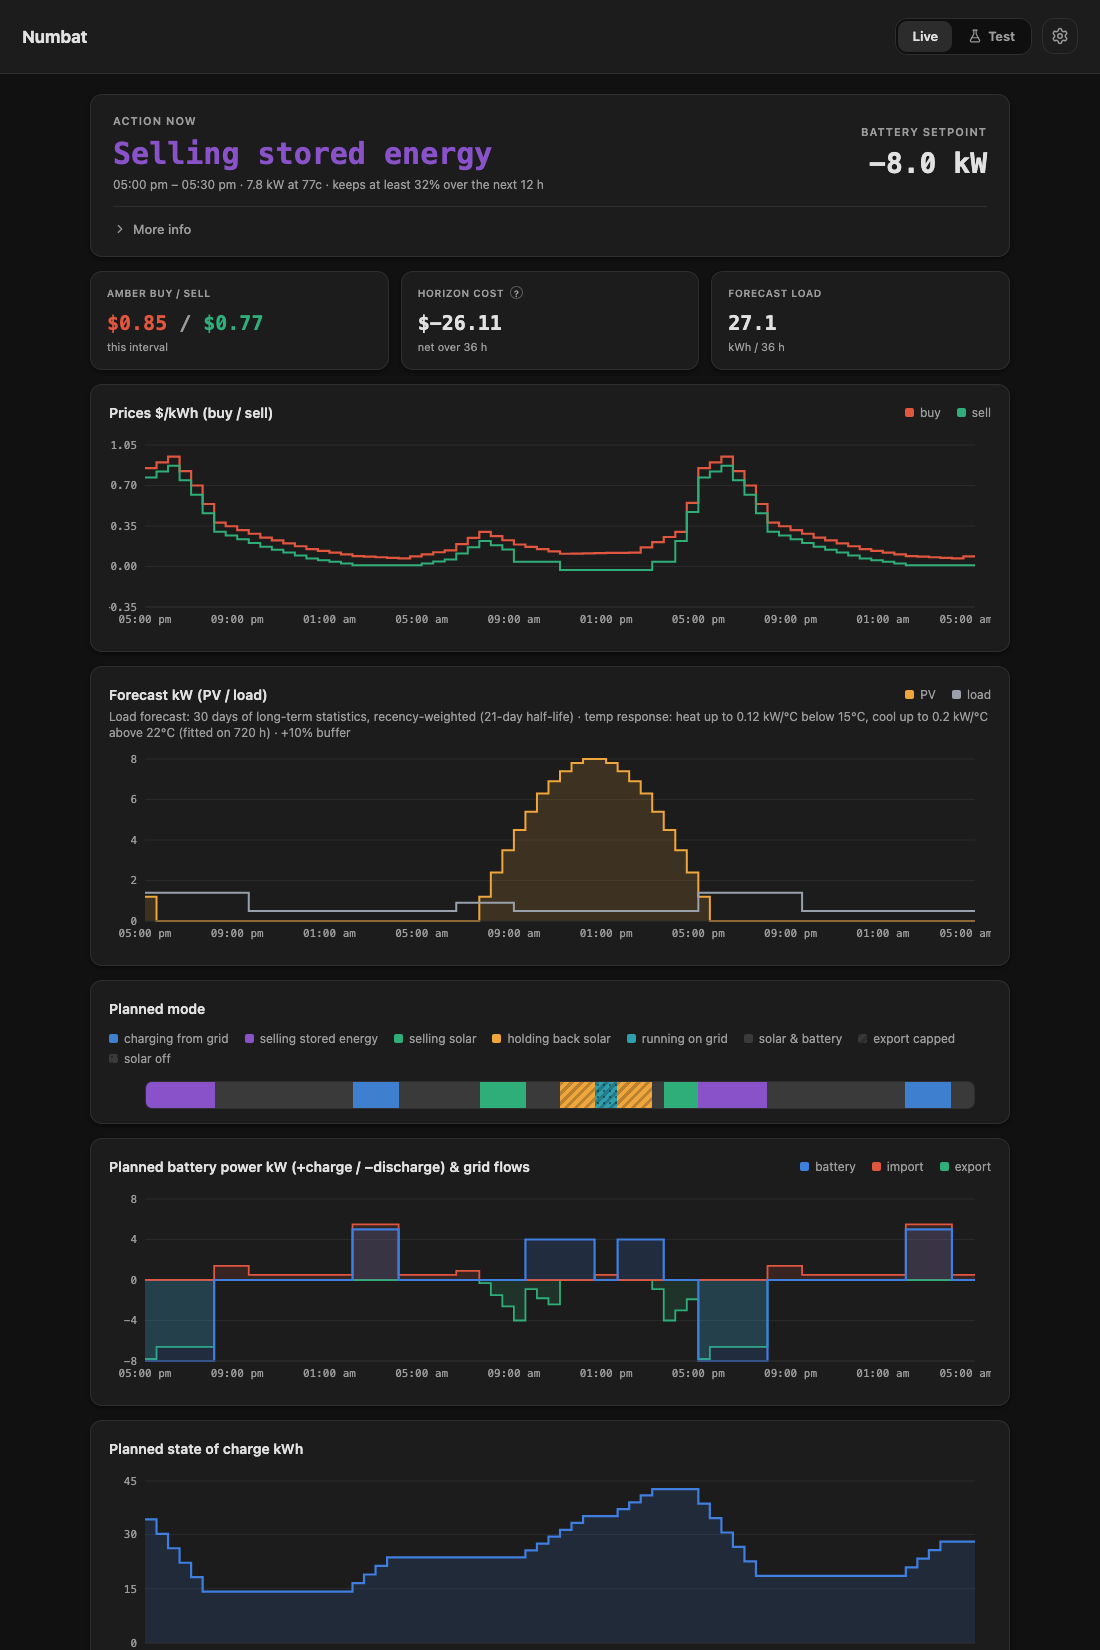
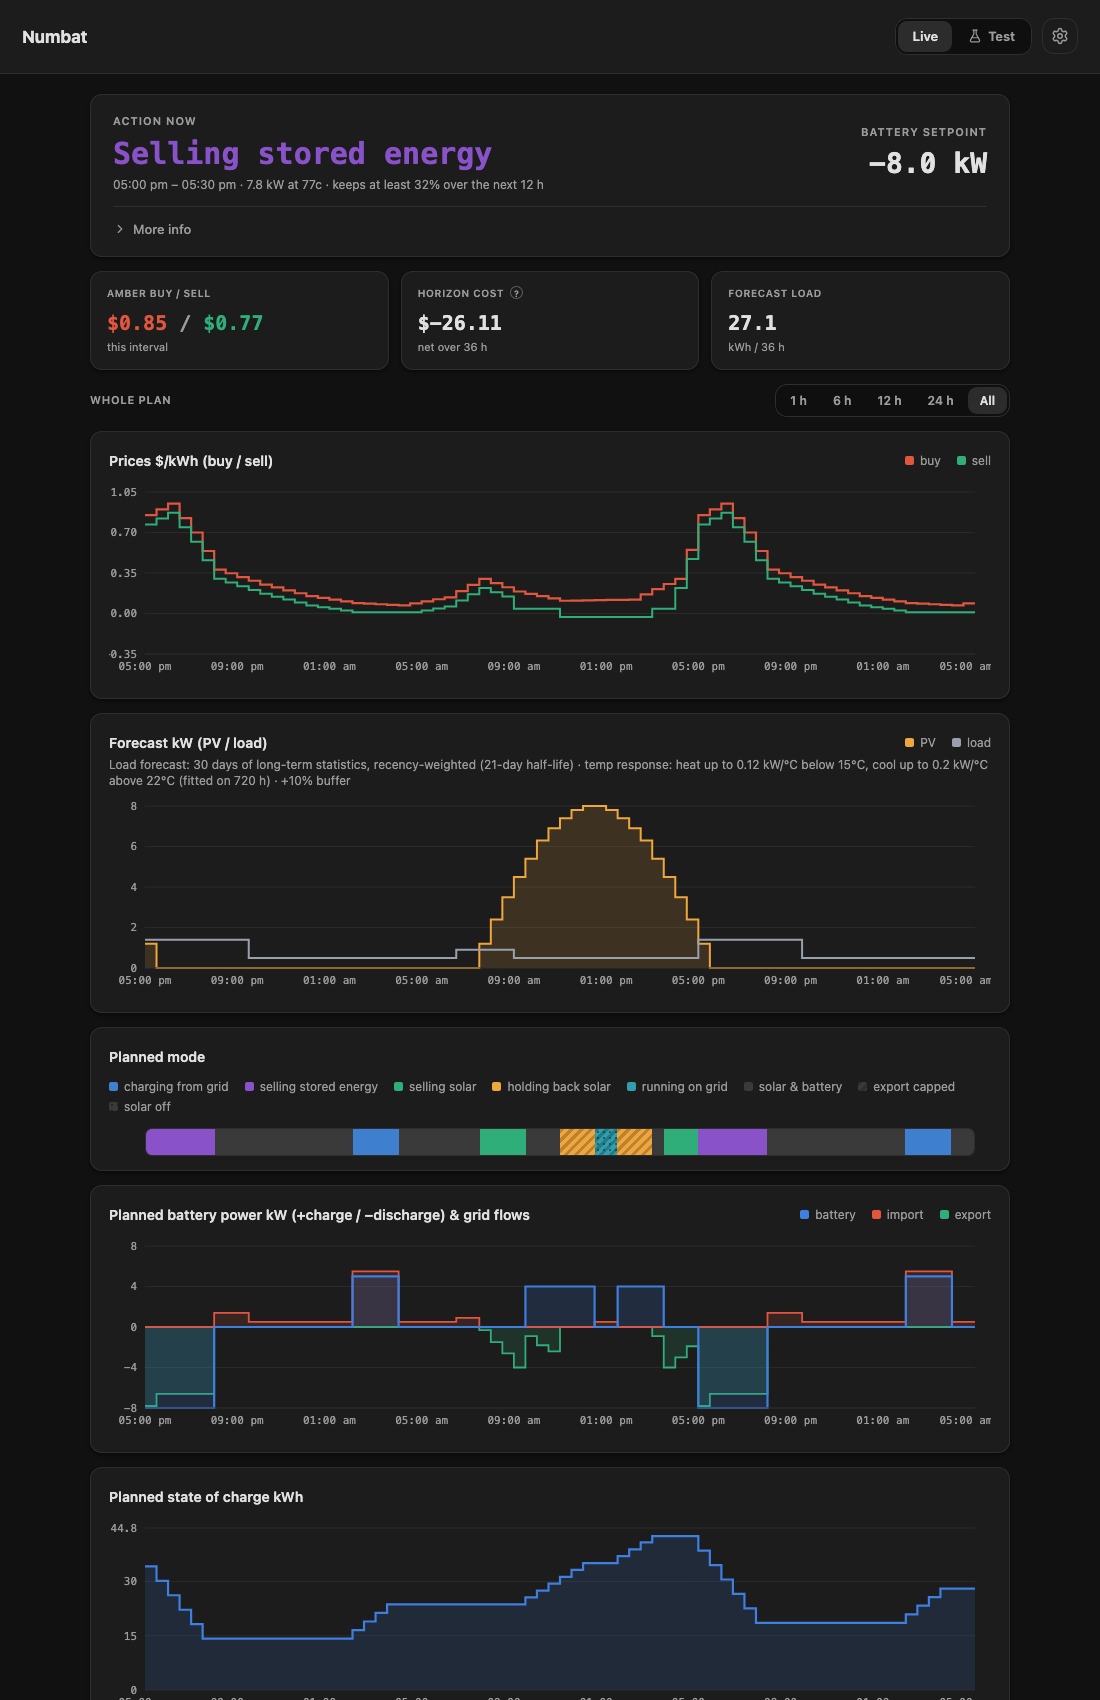
Dashboard: a chart range picker for phones
The 36-hour charts and mode strip were unreadable on a phone, where the
next few hours are what matters. A segmented picker above the charts
(1 h / 6 h / 12 h / 24 h / All) sets how much of the plan they show from
now: narrow screens default to the next 12 hours, wide screens to the
whole horizon, remembered per browser. The tiles keep the whole plan.
Intervals are shown whole (the window ends on the boundary of the last
interval that starts inside it); the axis ticks space themselves to the
window (makeTicks moved to a pure module with tests). kW axes format a
decimal only when a tick has one, so a small range no longer reads
"1 1 1 0 0". Screenshots regenerated, plus a phone capture for README.

diff --git a/numbat/frontend/src/charts.tsx b/numbat/frontend/src/charts.tsx
@@ -24,6 +24,7 @@ import {
   useDark,
 } from "./theme";
 import { setHoverT } from "./hover";
+import { makeTicks } from "./ticks";
 
 // One parsed interval — timestamps are parsed exactly once, in App, and every
 // consumer (charts, tiles, mode strip) works from these numbers.
@@ -44,17 +45,6 @@ export interface Row {
   pvOff: boolean;
 }
 
-/** Hourly-aligned ticks every `stepHours`, matching the plan's local timezone. */
-function makeTicks(t0: number, tEnd: number, stepHours = 2): number[] {
-  const first = new Date(t0);
-  first.setMinutes(0, 0, 0);
-  while (first.getTime() < t0) first.setHours(first.getHours() + 1);
-  const ticks: number[] = [];
-  for (const d = first; d.getTime() <= tEnd; d.setHours(d.getHours() + stepHours)) {
-    ticks.push(d.getTime());
-  }
-  return ticks;
-}
 
 export function LegendRow({ items }: { items: { label: string; color: string }[] }) {
   return (
@@ -198,6 +188,10 @@ const mutedTick = (dark: boolean) => (dark ? "#9b9b9b" : "#69727e");
 const kw = (_: string, v: number) => `${v.toFixed(2)} kW`;
 const dollars = (_: string, v: number) => `$${v.toFixed(3)}`;
 
+// kW axes over a short window can span under 5 kW, where whole-number ticks
+// repeat ("1 1 1 0 0"): show the decimal only when the tick has one.
+const kwTick = (v: number) => (Number.isInteger(v) ? v.toFixed(0) : v.toFixed(1));
+
 export function PricesChart({
   rows,
   domain,
@@ -270,7 +264,7 @@ export function ForecastChart({
       {info && (
         <div className="-mt-2.5 mb-2.5 text-xs text-muted-foreground">{info}</div>
       )}
-      <HemChart data={rows} domain={domain} yTickFormat={(v) => v.toFixed(0)} format={kw}>
+      <HemChart data={rows} domain={domain} yTickFormat={kwTick} format={kw}>
         <Area dataKey="pv" name="PV" type="stepAfter" stroke={SERIES.pv} strokeWidth={2} fill={SERIES_FILL.pv} fillOpacity={1} isAnimationActive={false} />
         <Line dataKey="load" name="load" type="stepAfter" stroke={SERIES.load} strokeWidth={2} dot={false} isAnimationActive={false} />
       </HemChart>
@@ -292,7 +286,7 @@ export function BatteryChart({ rows, domain }: { rows: Row[]; domain: [number, n
         />
       }
     >
-      <HemChart data={rows} domain={domain} yTickFormat={(v) => v.toFixed(0)} format={kw}>
+      <HemChart data={rows} domain={domain} yTickFormat={kwTick} format={kw}>
         <Area dataKey="gridExport" name="export" type="stepAfter" stroke={SERIES.gridExport} strokeWidth={1.8} fill={SERIES_FILL.gridExport} fillOpacity={1} isAnimationActive={false} />
         <Area dataKey="gridImport" name="import" type="stepAfter" stroke={SERIES.gridImport} strokeWidth={1.8} fill={SERIES_FILL.gridImport} fillOpacity={1} isAnimationActive={false} />
         <Area dataKey="battery" name="battery" type="stepAfter" stroke={SERIES.battery} strokeWidth={2.2} fill={SERIES_FILL.battery} fillOpacity={1} isAnimationActive={false} />
@@ -317,7 +311,7 @@ export function SocChart({
       <HemChart
         data={rows}
         domain={domain}
-        yTickFormat={(v) => v.toFixed(0)}
+        yTickFormat={kwTick}
         yDomain={capacity ? [0, capacity] : undefined}
         format={format}
       >

diff --git a/numbat/frontend/src/PlanView.tsx b/numbat/frontend/src/PlanView.tsx
@@ -2,12 +2,14 @@ import type { PlanResponse } from "./api";
 import { BatteryChart, ForecastChart, PricesChart, type Row, SocChart } from "./charts";
 import { flowOf } from "./flowText";
 import { ModeStrip } from "./ModeStrip";
+import { RangeBar, useRangeHours } from "./RangeBar";
 import { Hero, Stats } from "./Tiles";
 
 /** The shared plan render — hero, stat row, and all charts — used by both the
  * live Dashboard and Test mode so a simulated plan looks exactly like a real
  * one. `info` is the optional load-forecast line under the forecast chart. */
 export function PlanView({ plan, info }: { plan: PlanResponse; info?: string | null }) {
+  const [rangeHours, setRangeHours] = useRangeHours();
   // Parse interval timestamps once; every child works from Row. (No useMemo:
   // the React Compiler memoizes these; Query's structural sharing keeps
   // identity stable on quiet polls.)
@@ -28,26 +30,32 @@ export function PlanView({ plan, info }: { plan: PlanResponse; info?: string | n
     pvOff: !!iv.pv_off,
   }));
 
-  // Step charts need a closing point at the final interval's END, or every
-  // line stops one interval short of the axis edge (and of the mode strip).
-  const lastRow = rows[rows.length - 1];
-  const chartRows: Row[] = lastRow ? [...rows, { ...lastRow, t: lastRow.end }] : rows;
-
   const first = rows[0];
   const last = rows[rows.length - 1];
   if (!first || !last) {
     return <div className="p-6 text-center text-muted-foreground">plan is empty</div>;
   }
-  const domain: [number, number] = [first.t, last.end];
+  // The charts and the mode strip show the chosen window from now; the
+  // tiles above them keep the whole plan (the horizon cost is a horizon
+  // number). Intervals are kept whole: the window ends on the boundary of
+  // the last interval that starts inside it.
+  const windowEnd = rangeHours ? Math.min(last.end, first.t + rangeHours * 3_600_000) : last.end;
+  const shown = rows.filter((r) => r.t < windowEnd);
+  // Step charts need a closing point at the final interval's END, or every
+  // line stops one interval short of the axis edge (and of the mode strip).
+  const lastShown = shown[shown.length - 1] ?? last;
+  const chartRows: Row[] = [...shown, { ...lastShown, t: lastShown.end }];
+  const domain: [number, number] = [first.t, lastShown.end];
   const fcEnd = plan.meta.price_forecast_end ? Date.parse(plan.meta.price_forecast_end) : null;
 
   return (
     <>
       <Hero rows={rows} explanation={plan.meta.explanation} plan={plan} />
       <Stats plan={plan} rows={rows} />
+      <RangeBar hours={rangeHours} onChange={setRangeHours} />
       <PricesChart rows={chartRows} domain={domain} forecastEnd={fcEnd} />
       <ForecastChart rows={chartRows} domain={domain} info={info ?? null} />
-      <ModeStrip rows={rows} domain={domain} />
+      <ModeStrip rows={shown} domain={domain} />
       <BatteryChart rows={chartRows} domain={domain} />
       <SocChart rows={chartRows} domain={domain} capacity={plan.meta.capacity_kwh ?? null} />
     </>

diff --git a/numbat/frontend/src/RangeBar.tsx b/numbat/frontend/src/RangeBar.tsx
@@ -1,0 +1,76 @@
+import { useState } from "react";
+
+// How much of the plan the charts show, in hours from now; 0 = the whole
+// horizon. On a phone the full 36 h strip is unreadable and what matters is
+// the next few hours, so narrow screens default to 12 h; wide screens show
+// everything. The choice is remembered per browser.
+export const RANGE_OPTIONS: { hours: number; label: string }[] = [
+  { hours: 1, label: "1 h" },
+  { hours: 6, label: "6 h" },
+  { hours: 12, label: "12 h" },
+  { hours: 24, label: "24 h" },
+  { hours: 0, label: "All" },
+];
+
+const STORAGE_KEY = "numbat-range-hours";
+const NARROW = "(max-width: 639px)";
+
+function initialRangeHours(): number {
+  try {
+    const stored = localStorage.getItem(STORAGE_KEY);
+    if (stored !== null && RANGE_OPTIONS.some((o) => o.hours === Number(stored))) {
+      return Number(stored);
+    }
+  } catch {
+    // storage blocked: fall through to the screen-size default
+  }
+  return window.matchMedia(NARROW).matches ? 12 : 0;
+}
+
+export function useRangeHours(): [number, (hours: number) => void] {
+  const [hours, setHours] = useState(initialRangeHours);
+  const choose = (h: number) => {
+    setHours(h);
+    try {
+      localStorage.setItem(STORAGE_KEY, String(h));
+    } catch {
+      // per-browser convenience only
+    }
+  };
+  return [hours, choose];
+}
+
+/** Segmented range picker, styled like the Live | Test switch. */
+export function RangeBar({ hours, onChange }: { hours: number; onChange: (h: number) => void }) {
+  const seg =
+    "flex flex-1 sm:flex-none cursor-pointer items-center justify-center rounded-md " +
+    "border-none px-3 py-[5px] text-[12px] font-semibold transition-colors ";
+  const inactive = "bg-transparent text-muted-foreground hover:text-foreground";
+  const active =
+    "bg-card text-foreground shadow-[0_1px_2px_rgba(0,0,0,.12)] dark:bg-[#2c2c2c] dark:shadow-none";
+  return (
+    <div className="flex flex-wrap items-center justify-between gap-2">
+      <span className="text-[11px] font-semibold tracking-[.06em] text-muted-foreground uppercase">
+        {hours ? `Next ${hours} h` : "Whole plan"}
+      </span>
+      <div
+        role="radiogroup"
+        aria-label="Chart range"
+        className="flex gap-[2px] rounded-lg border border-border bg-tab-bg p-[2px] max-sm:flex-1"
+      >
+        {RANGE_OPTIONS.map((o) => (
+          <button
+            key={o.hours}
+            type="button"
+            role="radio"
+            aria-checked={hours === o.hours}
+            onClick={() => onChange(o.hours)}
+            className={seg + (hours === o.hours ? active : inactive)}
+          >
+            {o.label}
+          </button>
+        ))}
+      </div>
+    </div>
+  );
+}

diff --git a/numbat/frontend/scripts/screenshot.ts b/numbat/frontend/scripts/screenshot.ts
@@ -203,10 +203,13 @@ const server = Bun.serve({
 // Headless --screenshot captures exactly the window (the dashboard page
 // doesn't scroll the body), and content height is ~1625px with this mock
 // plan — 1650 frames the full dashboard with its natural bottom padding.
-// If the dashboard gains a card, bump the height.
-const SIZE = "1100,1650";
+// If the dashboard gains a card, bump the height. The phone capture is
+// narrow enough to take the mobile default (the next 12 h) and tall enough
+// for the stacked cards.
+const SIZE = "1100,1700";
+const PHONE_SIZE = "420,2260";
 
-async function capture(theme: string, out: string) {
+async function capture(theme: string, out: string, size = SIZE) {
   const profile = mkdtempSync(join(tmpdir(), "numbat-shot-"));
   // Capture into the fresh profile dir first: `out` is committed, so its mere
   // existence proves nothing — a failed run must never pass off the old PNG.
@@ -214,7 +217,7 @@ async function capture(theme: string, out: string) {
   try {
     const proc = Bun.spawn(
       [FIREFOX, "-headless", "-no-remote", "--profile", profile,
-       `--window-size=${SIZE}`, "--screenshot", shot,
+       `--window-size=${size}`, "--screenshot", shot,
        `http://127.0.0.1:${server.port}/?theme=${theme}`],
       { stdout: "ignore", stderr: "pipe" },
     );
@@ -234,4 +237,5 @@ async function capture(theme: string, out: string) {
 
 await capture("light", join(OUT_DIR, "dashboard-light.png"));
 await capture("dark", join(OUT_DIR, "dashboard-dark.png"));
+await capture("light", join(OUT_DIR, "dashboard-phone.png"), PHONE_SIZE);
 server.stop();

diff --git a/numbat/frontend/src/charts.test.ts b/numbat/frontend/src/charts.test.ts
@@ -1,0 +1,29 @@
+import { describe, expect, test } from "bun:test";
+import { makeTicks } from "./ticks";
+
+// Ticks sit on the clock in the machine's local zone (the browser's, live),
+// so the checks are about spacing and alignment, not wall-clock strings.
+const T0 = Date.parse("2026-11-11T10:07:00+10:30");
+const H = 3_600_000;
+const minutes = (ms: number) => new Date(ms).getMinutes();
+
+function check(spanH: number, stepH: number, stepHours?: number) {
+  const ticks = makeTicks(T0, T0 + spanH * H, stepHours);
+  expect(ticks.length).toBeGreaterThan(0);
+  expect(ticks[0]).toBeGreaterThanOrEqual(T0);
+  expect(ticks[0]! - T0).toBeLessThan(stepH * H); // the first multiple at or after now
+  for (let i = 1; i < ticks.length; i++) expect(ticks[i]! - ticks[i - 1]!).toBe(stepH * H);
+  expect(ticks[ticks.length - 1]).toBeLessThanOrEqual(T0 + spanH * H);
+  for (const t of ticks) expect(minutes(t) % (stepH < 1 ? stepH * 60 : 60)).toBe(0);
+  return ticks;
+}
+
+describe("makeTicks adapts to the window", () => {
+  test("an hour gets quarter-hours", () => expect(check(1, 0.25).length).toBe(4));
+  test("six hours get hourly ticks", () => expect(check(6, 1).length).toBe(6));
+  test("twelve hours get two-hourly ticks", () => expect(check(12, 2).length).toBe(6));
+  test("a day gets three-hourly ticks", () => expect(check(24, 3).length).toBe(8));
+  test("the full horizon keeps the two-hourly ticks it always had", () =>
+    expect(check(36, 2).length).toBe(18));
+  test("an explicit step is honoured", () => expect(check(6, 2, 2).length).toBe(3));
+});

diff --git a/numbat/frontend/src/ticks.ts b/numbat/frontend/src/ticks.ts
@@ -1,0 +1,20 @@
+// Axis ticks for the plan charts. Pure (no window access) so it can be
+// imported under `bun test`.
+
+/** Ticks aligned to the clock in the plan's local timezone, spaced to suit
+ * the window: quarter-hours for an hour, hourly up to 8 h, two-hourly up to
+ * 14 h, three-hourly to a day, and the long-standing two-hourly beyond. */
+export function makeTicks(t0: number, tEnd: number, stepHours?: number): number[] {
+  const spanH = (tEnd - t0) / 3_600_000;
+  const step = stepHours ?? (spanH <= 2 ? 0.25 : spanH <= 8 ? 1 : spanH <= 14 ? 2 : spanH <= 26 ? 3 : 2);
+  const stepMs = step * 3_600_000;
+  const first = new Date(t0);
+  first.setMinutes(0, 0, 0);
+  // the first tick is the first multiple of the step (from the top of that
+  // hour) at or after t0
+  let t = first.getTime();
+  while (t < t0) t += stepMs;
+  const ticks: number[] = [];
+  for (; t <= tEnd; t += stepMs) ticks.push(t);
+  return ticks;
+}

diff --git a/numbat/DOCS.md b/numbat/DOCS.md
@@ -503,7 +503,11 @@ template:
 The add-on serves an ingress panel (sidebar → Energy Manager): current
 action/setpoint/SoC/cost tiles plus charts of prices, PV/load forecast, planned
 battery power with grid flows, and the SoC trajectory. Auto-refreshes every
-minute; fully offline (no CDN).
+minute; fully offline (no CDN). A range picker above the charts (1 h · 6 h ·
+12 h · 24 h · All) sets how much of the plan they show, counted from now;
+phones default to the next 12 hours, wide screens to the whole horizon, and
+the choice is remembered per browser. The tiles above the picker always
+describe the whole plan.
 
 The page has two top-level modes, switched in the header: **Live** (the real
 plan, and settings that apply immediately when saved) and **Test** (a

diff --git a/numbat/CHANGELOG.md b/numbat/CHANGELOG.md
@@ -1,5 +1,17 @@
 # Changelog
 
+## Unreleased
+
+- **Dashboard: a chart range picker for phones.** The 36-hour charts and
+  mode strip were unreadable on a phone, where the next few hours are
+  what matters. A picker above the charts (1 h · 6 h · 12 h · 24 h · All)
+  sets how much of the plan they show from now; narrow screens default to
+  the next 12 hours, wide screens to the whole horizon, and the choice is
+  remembered per browser. The time axis spaces its ticks to the window
+  (quarter-hours for an hour, hourly to 8 h, two-hourly to 14 h,
+  three-hourly to a day). Also: kW axes no longer repeat whole-number
+  ticks over a small range ("1 1 1 0 0").
+
 ## 0.26.0
 
 - **The full-cap discharge request (`grid.inverter_limits_export`) no

diff --git a/README.md b/README.md
@@ -40,7 +40,10 @@ Numbat does one thing well: the battery.
 </picture>
 
 *The ingress dashboard (demo data), mid-way through selling into an evening
-price peak.*
+price peak. On a phone the charts default to the next 12 hours — a range
+picker (1 h · 6 h · 12 h · 24 h · All) sits above them:*
+
+<img alt="The dashboard on a phone, showing the next 12 hours" src="docs/screenshots/dashboard-phone.png" width="300">
 
 ## Inputs
 
